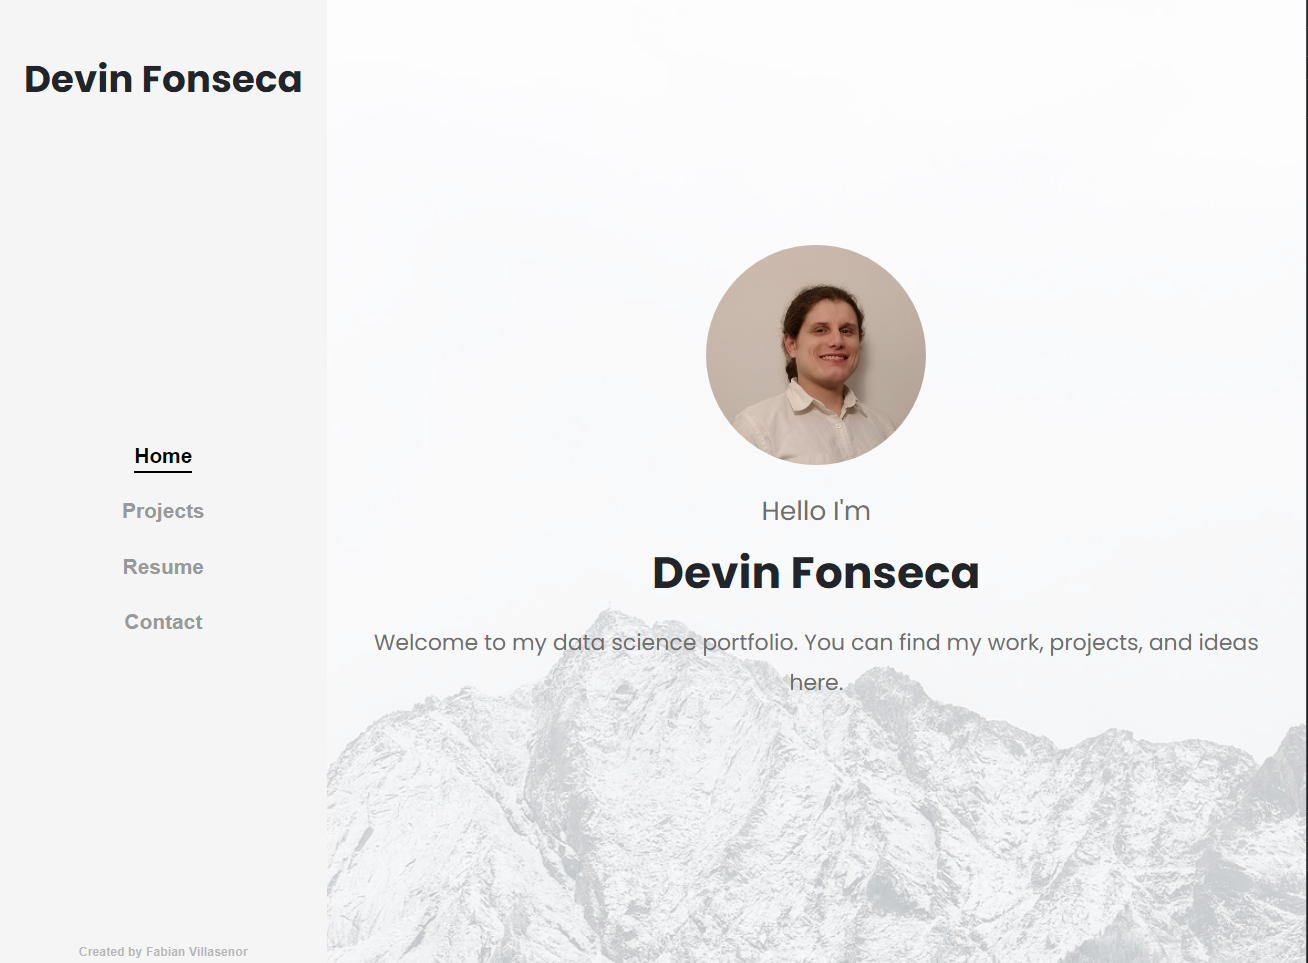
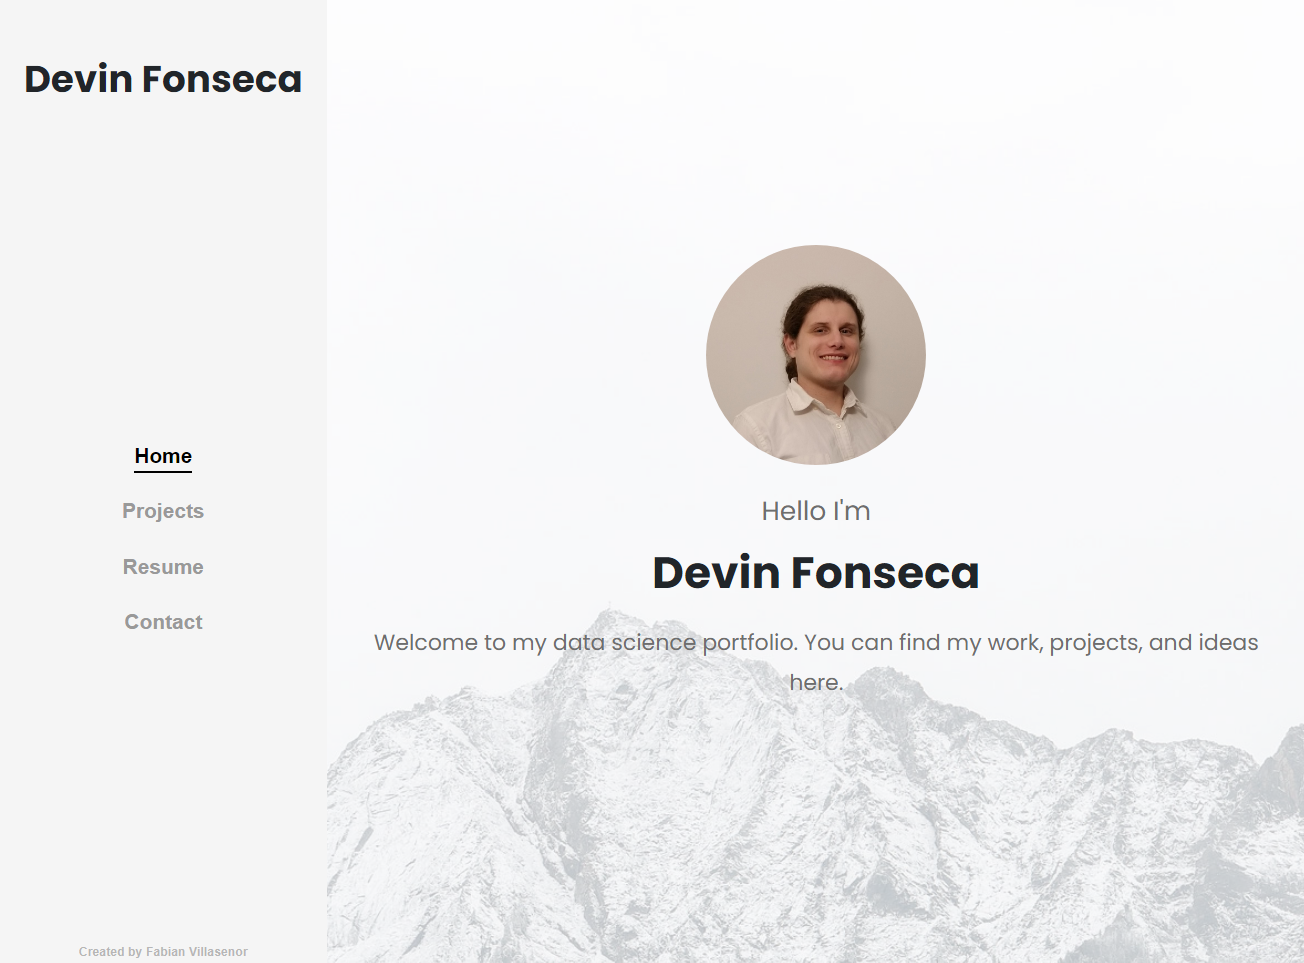
add

diff --git a/src/Components/Navbar/Navbar.css b/src/Components/Navbar/Navbar.css
@@ -53,16 +53,17 @@
 }
 .name h1{
     /* border: 2px solid red; */
-    font-size: 50px;
+    font-size: 2.5rem;
+    z-index: 1;
 }
 
 .navbar-items-container{
     /* border: 2px solid red; */
     /* background-color: inherit; */
-    padding: 38px;
+    padding: 15px;
     position: fixed;
     right: 0px;
-    width: 500px;
+    width: 25%;
 }
 
 .navbar-items-container nav{
@@ -81,4 +82,14 @@
     justify-content: center;
     width: 100px;
     height: 40px;
+}
+
+a:hover{
+    color: white;
+}
+
+@media screen and (max-width:1100px) {
+    .navbar-items-container{
+        width: 30%;
+    }
 }

diff --git a/src/Components/Project-card/ProjectCard.js b/src/Components/Project-card/ProjectCard.js
@@ -4,7 +4,7 @@ import './ProjectCard.css'
 
 export default function ProjectCard(props) {
     const projectData = props.projectData;
-    console.log(projectData)
+    
     return (
         <div className='project'>
             <div className="project-header">
